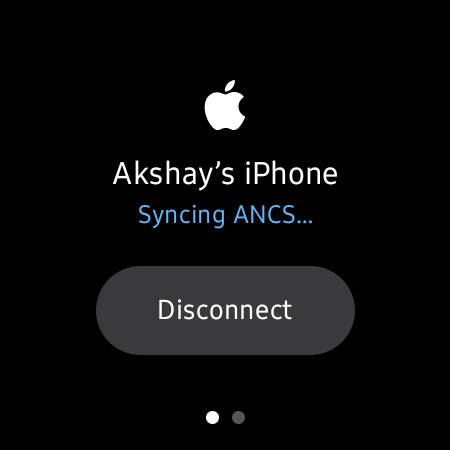
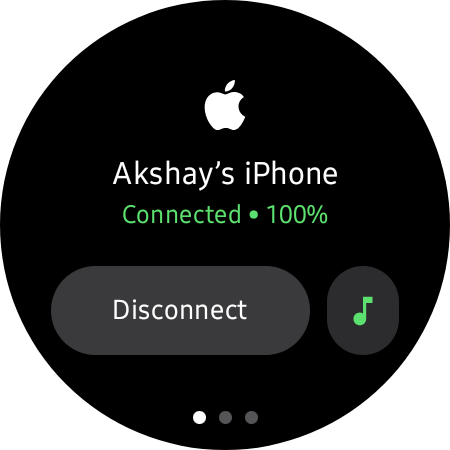
Implement code changes to enhance functionality and improve performance

diff --git a/app/src/main/java/com/wearsync/watch/complication/PhoneBatteryComplicationService.kt b/app/src/main/java/com/wearsync/watch/complication/PhoneBatteryComplicationService.kt
@@ -107,7 +107,6 @@ class PhoneBatteryComplicationService : SuspendingComplicationDataSourceService(
                     contentDescription = PlainComplicationText.Builder(contentDesc).build()
                 )
                     .setText(PlainComplicationText.Builder(valueText).build())
-                    .setTitle(PlainComplicationText.Builder("iPhone").build())
                     .setMonochromaticImage(icon)
                     .setTapAction(tapPendingIntent)
                     .build()
@@ -118,7 +117,6 @@ class PhoneBatteryComplicationService : SuspendingComplicationDataSourceService(
                     text = PlainComplicationText.Builder(valueText).build(),
                     contentDescription = PlainComplicationText.Builder(contentDesc).build()
                 )
-                    .setTitle(PlainComplicationText.Builder("iPhone").build())
                     .setMonochromaticImage(icon)
                     .setTapAction(tapPendingIntent)
                     .build()

diff --git a/README.md b/README.md
@@ -1,61 +1,84 @@
-# WearSync — Connect Any Galaxy Watch or Pixel Watch to iPhone
+# WearSync — Connect Galaxy Watch & Pixel Watch to iPhone
 
-Want to **connect your Samsung Galaxy Watch or Google Pixel Watch to an iPhone** for notifications? **WearSync** mirrors your iPhone notifications straight to **any Wear OS 3.0+ smartwatch** directly over Bluetooth — **no jailbreak and no iPhone companion app required**.
+Use your **Samsung Galaxy Watch**, **Google Pixel Watch**, or **any Wear OS 3.0+ smartwatch with an iPhone** — directly over Bluetooth Low Energy (BLE). **WearSync** mirrors iPhone notifications, incoming calls, live music controls, and iPhone battery status straight to your wrist with **no jailbreak and no iPhone companion app required**.
 
-Works with **Samsung Galaxy Watch (4, 5, 6, 7, Ultra)**, **Google Pixel Watch (1, 2, 3)**, **OnePlus Watch**, **TicWatch**, and other Wear OS smartwatches running Wear OS 3.0 or newer.
+Powered natively by Apple’s **ANCS** (Apple Notification Center Service), **AMS** (Apple Media Service), and standard **BLE Battery Service**, WearSync turns any modern Wear OS watch into a clean, battery-friendly iPhone companion.
 
 ---
 
 ## Screenshots
 
-| Active Device | Connect Devices |
-| :---: | :---: |
-| ![Active Device](docs/screenshots/active-device.png) | ![Connect Devices](docs/screenshots/connect-devices.png) |
+| Active Device & Battery | Mini Music Control | Connect Devices |
+| :---: | :---: | :---: |
+| ![WearSync Active Device screen showing iPhone connection and battery percentage on Wear OS](docs/screenshots/active-device.png) | ![WearSync minimal Music Control screen for iPhone media playback and volume on Wear OS](docs/screenshots/music-control.png) | ![WearSync Connect Devices screen scanning and connecting to iPhone over Bluetooth](docs/screenshots/connect-devices.png) |
 
 ---
 
 ## Features
 
-- **Use Wear OS with iPhone (No Extra iPhone App):** Connects directly from your watch to your iPhone over Bluetooth — nothing to install on iOS.
-- **iPhone Notifications on Galaxy Watch & Pixel Watch:** Get WhatsApp, Messages, Phone calls, Gmail, Instagram, Slack, and other iOS alerts right on your wrist.
-- **Shows Your Real iPhone Name:** Displays your actual iPhone name (like *Alex’s iPhone*) instead of a generic label.
-- **Instant Popups & Clean Notification Drawer:** New alerts wake your watch screen with a full-screen popup card while keeping your notification drawer tidy with one active card at a time so alerts don’t get stacked or silenced.
-- **Recognizable App Icons:** Displays familiar circular icons for WhatsApp, Messages, Phone, Gmail, Instagram, Slack, and more.
-- **Two-Way Notification Dismiss:** Dismissing an alert on your watch can clear it on your iPhone too.
-- **Simple 2-Screen Watch Interface:**
-  - **Active Device:** Shows your paired iPhone, live connection status, and `Connect` / `Disconnect` / `Forget` controls.
-  - **Connect Devices:** Scans for nearby iPhones and filters out non-Apple phones so the device list stays clean.
-- **Built for Watch Battery Life:** Automatically pauses background discovery once your iPhone is connected and reconnects on its own if Bluetooth drops.
+### iPhone Notifications & Incoming Calls on Wear OS
+- **No iPhone Companion App Needed:** Connects directly from your Wear OS watch to your iPhone over Bluetooth — nothing to install on iOS.
+- **Instant iPhone Alerts on Your Wrist:** Receive WhatsApp, Messages, Phone, FaceTime, Gmail, Instagram, Slack, Discord, and other iOS notifications with recognizable app icons.
+- **Dedicated Incoming Call Ringing Screen:** Full-screen incoming call alert with caller name, pulsing indicator, continuous ring vibration, and **Accept / Decline** buttons.
+- **Two-Way Notification Dismiss:** Dismissing an alert on your watch clears it on your iPhone as well.
+- **Clean Popups & Drawer:** New alerts wake your watch screen with a minimal card while keeping your notification drawer tidy.
+- **Shows Your Real iPhone Name:** Displays your actual iPhone name (e.g., *Akshay’s iPhone*) instead of a generic Bluetooth label.
+
+### Minimal iPhone Music Control (Apple Media Service)
+- **Control iPhone Audio from Wear OS:** Play, pause, skip to next/previous track, and adjust iPhone volume with rounded `−` / `+` buttons directly from your watch.
+- **Live Now Playing Info:** Displays the active player name (Spotify, Apple Music, Audia, Podcasts, etc.), track title, artist, and a hairline progress bar.
+- **Adaptive Player Controls:** Supports queue Shuffle/Repeat modes, track Like, and `±15s` podcast/audiobook skip when exposed by the active iOS media app.
+- **Quick Home Shortcut:** Tap the music button next to `Disconnect` on the Home screen to jump straight to playback controls.
+
+### Live iPhone Battery & Watch Face Complication
+- **iPhone Battery Percentage on Watch:** Reads your iPhone’s live battery level over BLE (`0x180F`) and displays it right on the **Active Device** screen (e.g., `Connected • 100%`).
+- **Wear OS Watch Face Complication:** Add the **iPhone Battery** complication (`Ranged Value` or `Short Text`) directly to your favorite Wear OS watch face.
+
+### Simple 3-Screen Watch Interface
+1. **Active Device:** Paired iPhone name, live connection & battery status, `Connect` / `Disconnect` / `Forget`, and a one-tap Music shortcut.
+2. **Music Control:** Ultra-minimal OLED player for iPhone media and volume.
+3. **Connect Devices:** Scans for nearby Apple devices and filters out non-Apple phones.
 
 ---
 
-## Requirements
+## Compatibility
 
-- **Watch:** Wear OS 3.0 or newer (`minSdk = 30`, verified on Samsung Galaxy Watch 4 `SM-R870`)
-- **Phone:** iPhone running iOS with **Share System Notifications** turned **ON** for your watch under **Settings → Bluetooth → (i)**
-- **Building from Source (optional):** JDK 17, Android Gradle Plugin `8.7.3`, Kotlin `2.0.21`, Android SDK `35`
+- **Smartwatches:** Samsung Galaxy Watch (4, 5, 6, 7, Ultra), Google Pixel Watch (1, 2, 3), OnePlus Watch, TicWatch, and any smartwatch running **Wear OS 3.0 or newer** (`minSdk = 30`).
+- **Phones:** Any **iPhone** running iOS with **Share System Notifications** enabled in Bluetooth settings.
+- **Building from Source (optional):** JDK 17, Android Gradle Plugin `8.7.3`, Kotlin `2.0.21`, Android SDK `35`.
 
 ---
 
 ## How to Connect Your Wear OS Watch to iPhone
 
-### 1. Install WearSync on your watch
-
-Download the signed release APK (`WearSync-v1.0.0-release.apk` or `app-release.apk`) from **Releases** and install it over ADB:
+### 1. Install WearSync on Your Watch
+Download the signed release APK (`app-release.apk`) from **Releases** and install it over ADB:
 
 ```bash
-adb install WearSync-v1.0.0-release.apk
+adb install app-release.apk
 ```
 
-> Upgrading from an earlier debug build? Uninstall it first (`adb uninstall com.wearsync.watch`) before installing the release APK.
+> Upgrading from a debug build? Uninstall it first (`adb uninstall com.wearsync.watch`) before installing the release APK.
 
-### 2. Pair with your iPhone
-
+### 2. Pair with Your iPhone
 1. Open **WearSync** on your watch and allow **Nearby devices** and **Notifications** permissions.
 2. Swipe to **Connect Devices** and tap **Scan iPhone** (or select your watch in iPhone **Settings → Bluetooth**).
 3. Confirm the Bluetooth pairing code on both your watch and iPhone.
 4. **Important:** On your iPhone, open **Settings → Bluetooth**, tap the **(i)** icon next to your watch, and turn **Share System Notifications** **ON**.
 
-Your iPhone notifications will now mirror straight to your Galaxy Watch, Pixel Watch, or Wear OS watch automatically.
+### 3. Add the iPhone Battery Watch Face Complication (Optional)
+1. Long-press your Wear OS watch face and tap **Customize**.
+2. Select a complication slot and choose **WearSync → iPhone Battery**.
 
 ---
+
+## FAQ
+
+**Does WearSync require an iPhone app or jailbreak?**  
+No. WearSync uses standard Bluetooth Low Energy services built into iOS (**ANCS**, **AMS**, and **Battery Service**), so no iOS app or jailbreak is needed.
+
+**Can I control Spotify or Apple Music on my iPhone from a Galaxy Watch or Pixel Watch?**  
+Yes. Once paired, swipe to the **Music** screen in WearSync to play/pause, skip tracks, and adjust iPhone volume.
+
+**Can I answer or decline iPhone calls from my Wear OS watch?**  
+Yes. Incoming calls trigger a dedicated full-screen ringing UI with **Accept** and **Decline** buttons synced back to your iPhone via ANCS.
